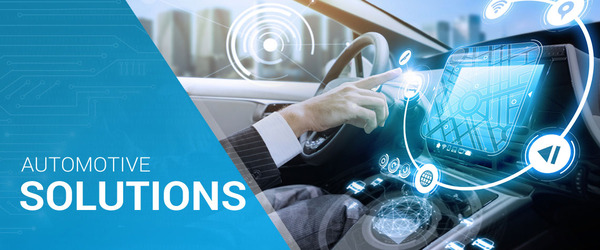
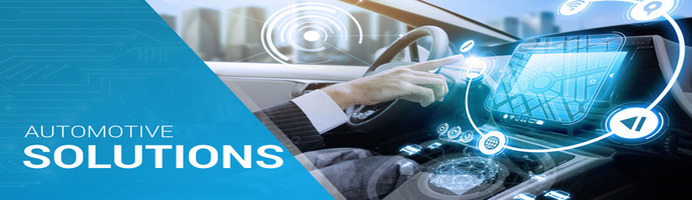
Home page changes

diff --git a/webapp/controller/HRSolutions_Demo.controller.js b/webapp/controller/HRSolutions_Demo.controller.js
@@ -9,7 +9,22 @@ sap.ui.define([
 		onInit: function() {
 			//   this.getRouter().getRoute("HRSolutions_Demo").attachMatched(this._onRouteMatched, this);
 		},
-		
+		onOpenDemoForm: function() {
+			  if (!this._oDemoFormDialog) {
+            this._oDemoFormDialog = sap.ui.xmlfragment(
+              this.getView().getId(), "sap.kt.com.minihrsolution.fragment.NewDemoform",
+              this
+            );
+            this.getView().addDependent(this._oDemoFormDialog);
+          }
+          this._oDemoFormDialog.open();
+		}
+,
+ onCloseDemoForm: function () {
+          if (this._oDemoFormDialog) {
+            this._oDemoFormDialog.close();
+          }
+        },
 
 	});
 });

diff --git a/webapp/controller/HomePage.controller.js b/webapp/controller/HomePage.controller.js
@@ -671,6 +671,12 @@ onAssetPress:function(){
 },
 onrecruitmentPress:function(){
    this.getRouter().navTo("Recruitment_Demo");
+},
+onAutoMotivePress: function () {
+   this.getRouter().navTo("AutoMobile_Demo");
+},
+onIdCardPress: function () {
+   this.getRouter().navTo("IDCardgenerate");
 }
 
 